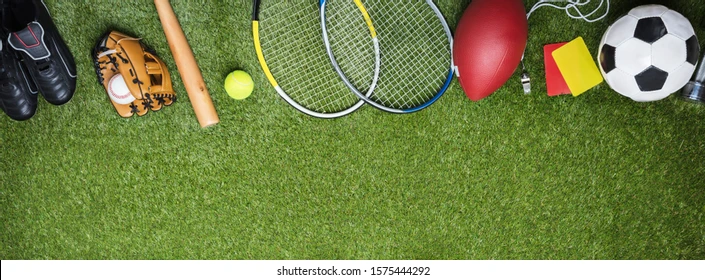
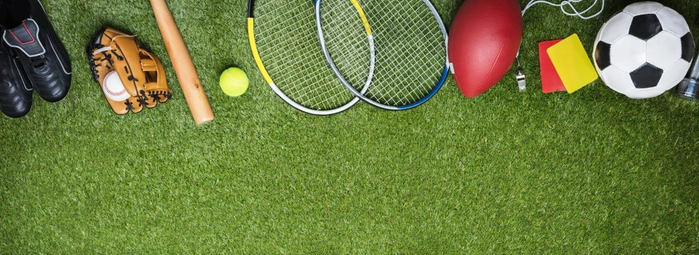
Finish precditions page, image adjustment

diff --git a/predictions.html b/predictions.html
@@ -128,7 +128,7 @@
 
             <!-- Placeholder for calling to 3rd-party sports game API -->
             <img src="Images/royals-vs-braves.png" alt="Royals versus Braves matchup">
-            <br><br>
+            <br>
 
             <input type="radio" id="selection2" name="game4" value="Braves">
             <label for="selection2">Braves</label>
@@ -140,15 +140,16 @@
         
       </div>
 
-      <br><br>
-      <br><br>
+      <br>
 
-      <img src="Images/sports-banner-color.png" alt="banner of multiple sports being played" width="100%">
-      <br><br>
+
+      <div class="image-box" id="image">
+        <img src="Images/sports-banner-color.png" alt="banner of multiple sports being played">
+      </div>
+
     </main>
 
-    
-
+  
     <footer class="bg-dark text-white-50">
       <div class="container-fluid">
         <span class="text-reset">Logan Gibbons</span>

diff --git a/predict.css b/predict.css
@@ -74,7 +74,6 @@ nav a:hover{
   font-weight: bolder;
 }
 
-
 div.user-and-leaderboard {
   display: flex;
   justify-content: space-between;
@@ -105,6 +104,19 @@ footer a {
   grid-template-columns: repeat(auto-fill, minmax(300px, 1fr));
   grid-auto-rows: 300px;
   grid-gap: 1em;
+}
+
+.image-box {
+  margin-bottom: 1em;
+  padding: 0.5em;
+  border-radius: 5px;
+  display: flex;
+  justify-content: center;
+  align-items: center;
+}
+
+#image img {
+  border: 5px solid #E5E5E5;
 }
 
 @media (max-height: 600px) {
